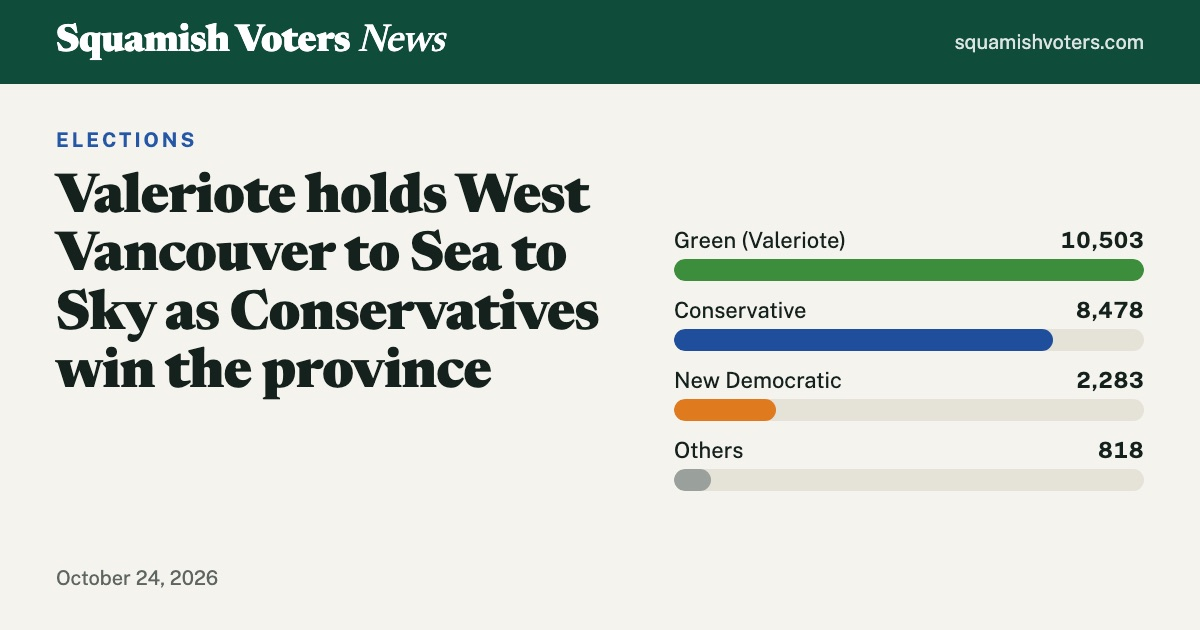
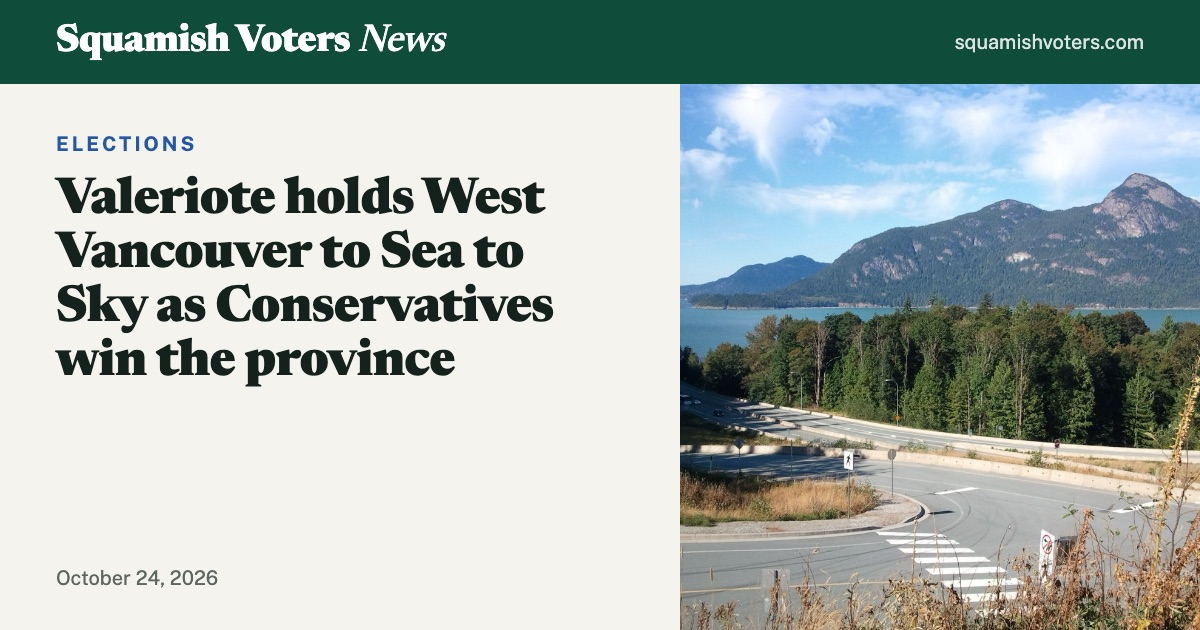
News photos: openly licensed photo on each story with credit, picked automatically for new drafts; News pill in the desktop top bar
Existing stories get Wikimedia Commons photos (photographer and licence shown). New drafts: Claude suggests
searches, looks at Commons results and picks one or none; the approval email and page show it and it can be
left off. Share pictures include the photo.

diff --git a/src/site.css b/src/site.css
@@ -1175,3 +1175,33 @@ dialog.sides .small { margin: 0; font-weight: 700; }
 .nw [data-s="safety"], [data-s="safety"].nw-hk, .nw-chip[data-s="safety"] { --c: var(--nw-safety); }
 .nw [data-s="weather"], [data-s="weather"].nw-hk, .nw-chip[data-s="weather"] { --c: var(--nw-weather); }
 @media (min-width: 1000px) { .nw-lead.solo { grid-template-columns: minmax(0, 1fr); } .nw-lead.solo .nw-h { font-size: 2.4rem; } }
+
+/* news photos */
+.nw-photo { margin: 0; display: grid; gap: .3rem; }
+.nw-photo img { width: 100%; height: auto; aspect-ratio: 3 / 2; object-fit: cover; display: block; border-radius: 10px; background: var(--nw-track); }
+.nw-photo figcaption { font-size: .72rem; color: var(--muted); line-height: 1.35; }
+.nw-photo figcaption span { white-space: normal; }
+.nw-photo figcaption a { color: var(--muted); }
+.nw-card > .nw-photo, .nw-feature > .nw-photo { margin: -1rem -1.05rem .1rem; }
+.nw-card > .nw-photo img, .nw-feature > .nw-photo img { border-radius: var(--radius) var(--radius) 0 0; aspect-ratio: 16 / 9; }
+.nw-card > .nw-photo figcaption, .nw-feature > .nw-photo figcaption { padding: 0 1.05rem; }
+.nw-feature > .nw-photo { margin: -1.1rem -1.1rem .1rem; }
+.nw-card > .nw-map:first-child { margin-top: -1rem; }
+.nw-card > .nw-map:first-child img { border-radius: var(--radius) var(--radius) 0 0; }
+.nw-lead > .nw-photo img { aspect-ratio: 16 / 9; }
+.nw-full .nw-photo img { aspect-ratio: 16 / 9; }
+.nw-homebox li { display: grid; grid-template-columns: auto 1fr; column-gap: .8rem; align-items: start; }
+.nw-homebox li > :not(.nw-thumb) { grid-column: 2; }
+.nw-homebox .nw-thumb { grid-row: 1 / span 2; width: 5.2rem; height: 3.5rem; object-fit: cover; border-radius: 8px; }
+.nw-homebox li:not(:has(.nw-thumb)) { grid-template-columns: 1fr; }
+.nw-homebox li:not(:has(.nw-thumb)) > * { grid-column: 1; }
+@media (min-width: 1000px) {
+  .nw-lead > .nw-photo { grid-column: 1 / -1; }
+  .nw-lead:not(.solo) > .nw-panel { grid-row: 2 / span 5; }
+}
+@media (min-width: 700px) { .nw-feature > .nw-photo { margin: -1.4rem -1.4rem .1rem; } }
+/* desktop top bar: News as a highlighted button, like the raised one on phones */
+.top-nav a.nav-news { background: var(--focus); color: #14211c; display: inline-flex; align-items: center; gap: .35rem; margin-left: .35rem; padding: .5rem .85rem; border-radius: 999px; font-weight: 800; }
+.top-nav a.nav-news svg { width: 18px; height: 18px; }
+.top-nav a.nav-news:hover { background: #ffc933; }
+.top-nav a.nav-news[aria-current="page"] { background: #fff; color: var(--brand); }

diff --git a/api/news-review.js b/api/news-review.js
@@ -40,7 +40,7 @@ export default async function handler(req, res) {
       await sql`UPDATE sv_news SET status = 'rejected', decided_at = now() WHERE id = ${id}`;
       return res.send(shell('Skipped', '<h1>Skipped</h1><p>This one won’t go on the site.</p>'));
     }
-    const d = { ...r.draft, head: one(b.head, 140) || r.draft.head, dek: one(b.dek, 1200) || r.draft.dek, take: one(b.take, 400), visual_big: one(b.visual_big, 24), visual_small: one(b.visual_small, 60) };
+    const d = { ...r.draft, head: one(b.head, 140) || r.draft.head, dek: one(b.dek, 1200) || r.draft.dek, take: one(b.take, 400), visual_big: one(b.visual_big, 24), visual_small: one(b.visual_small, 60), photo: b.no_photo ? null : r.draft.photo || null };
     await sql`UPDATE sv_news SET status = 'approved', decided_at = now(), draft = ${JSON.stringify(d)} WHERE id = ${id}`;
     return res.send(shell('Approved', `<h1>Approved</h1><p>“${esc(d.head)}” is on <a href="https://squamishvoters.com/news/">squamishvoters.com/news</a> now (it can take up to a minute to appear). Its share picture is added within about 20 minutes.</p>`));
   }
@@ -51,6 +51,8 @@ export default async function handler(req, res) {
 <p class="src">From <a href="${esc(it.url)}" target="_blank" rel="noopener">${esc(it.label)}: ${esc(it.title)}</a></p>
 <form method="post" action="/api/news-review/">
 <input type="hidden" name="id" value="${esc(id)}"><input type="hidden" name="t" value="${esc(t)}">
+${d.photo ? `<figure style="margin:1rem 0 0"><img src="${esc(d.photo.remote)}" alt="" style="width:100%;height:auto;border-radius:10px;display:block"><figcaption class="src">${esc(d.photo.caption)} Photo: <a href="${esc(d.photo.link)}" target="_blank" rel="noopener">${esc(d.photo.credit)}</a></figcaption></figure>
+<label style="font-weight:600"><input type="checkbox" name="no_photo" value="1" style="width:auto;margin-right:.4rem">Leave the photo off</label>` : ''}
 <label for="head">Headline</label><textarea id="head" name="head" maxlength="140" style="min-height:4.2rem;font-weight:700">${esc(d.head)}</textarea>
 <label for="dek">Story</label><textarea id="dek" name="dek" maxlength="1200">${esc(d.dek)}</textarea>
 <label for="take">What changes (one line, optional)</label><textarea id="take" name="take" maxlength="400" style="min-height:4rem">${esc(d.take)}</textarea>

diff --git a/scripts/pipeline/news-og.html b/scripts/pipeline/news-og.html
@@ -10,7 +10,7 @@ body{background:#f4f3ee;color:#14211c;font-family:"Public Sans",system-ui,sans-s
 .k{font-weight:700;font-size:20px;letter-spacing:3px;text-transform:uppercase}
 h1{font:800 58px/1.08 "Newsreader",Georgia,serif;margin:0;letter-spacing:-.5px;text-wrap:balance}
 .d{margin-top:auto;font-size:20px;color:#5d6661}
-.vis{align-self:center;max-width:420px}.big{font:800 112px/1 "Newsreader",Georgia,serif}.small{font-size:22px;font-weight:700;letter-spacing:2px;text-transform:uppercase;color:#5d6661;margin-top:10px}
+.vis{align-self:center;max-width:420px}.ph{margin:-48px -56px -40px 0;width:520px;height:calc(100% + 88px);background-size:cover;background-position:center}.main.wide{padding-right:56px}.big{font:800 112px/1 "Newsreader",Georgia,serif}.small{font-size:22px;font-weight:700;letter-spacing:2px;text-transform:uppercase;color:#5d6661;margin-top:10px}
 </style></head><body>
 <div class="top"><b>Squamish Voters <i>News</i></b><span>squamishvoters.com</span></div>
 <div class="main"><div class="txt"><div class="k" id="k"></div><h1 id="h"></h1><div class="d" id="d"></div></div><div class="vis" id="v"></div></div>
@@ -21,6 +21,7 @@ const c = COL[st.s] || '#0f4c3a';
 const k = document.getElementById('k'); k.textContent = st.sec; k.style.color = c;
 document.getElementById('h').textContent = st.head;
 document.getElementById('d').textContent = st.date;
-if (st.big) { const v = document.getElementById('v'); v.innerHTML = '<div class="big"></div><div class="small"></div>'; v.firstChild.textContent = st.big; v.firstChild.style.color = c; v.lastChild.textContent = st.small; }
+if (st.photo) { const v = document.getElementById('v'); v.className = 'ph'; v.style.backgroundImage = `url(${st.photo})`; }
+else if (st.big) { const v = document.getElementById('v'); v.innerHTML = '<div class="big"></div><div class="small"></div>'; v.firstChild.textContent = st.big; v.firstChild.style.color = c; v.lastChild.textContent = st.small; }
 if (st.head.length > 70) document.getElementById('h').style.fontSize = '50px';
 </script></body></html>

diff --git a/api/news-live.js b/api/news-live.js
@@ -13,7 +13,7 @@ const today = () => new Date().toLocaleDateString('en-CA', { timeZone: 'America/
 
 const toStory = (r) => {
   const d = r.draft || {}, it = r.item || {};
-  return { slug: d.slug, s: d.section, sec: SEC[d.section] || 'News', date: it.date && it.date <= today() ? it.date : today(), head: d.head, dek: d.dek, take: d.take || '', big: d.visual_big || '', small: d.visual_small || '', src: [it.label, it.url] };
+  return { slug: d.slug, s: d.section, sec: SEC[d.section] || 'News', date: it.date && it.date <= today() ? it.date : today(), head: d.head, dek: d.dek, take: d.take || '', big: d.visual_big || '', small: d.visual_small || '', photo: d.photo || null, src: [it.label, it.url] };
 };
 
 export default async function handler(req, res) {
@@ -36,7 +36,7 @@ export default async function handler(req, res) {
   }
   const url = `/news/${st.slug}/`;
   const body = `<div class="nw-kicker"><span>${esc(st.sec)}</span><time datetime="${st.date}" data-rel>${esc(new Date(st.date + 'T12:00:00').toLocaleDateString('en-CA', { month: 'long', day: 'numeric', year: 'numeric' }))}</time></div>
-<h1 class="nw-h">${esc(st.head)}</h1><p class="nw-dek">${esc(st.dek)}</p>
+<h1 class="nw-h">${esc(st.head)}</h1>${st.photo ? `<figure class="nw-photo"><img src="${esc(st.photo.remote)}" alt="${esc(st.photo.alt)}"><figcaption>${esc(st.photo.caption)} <span>Photo: <a href="${esc(st.photo.link)}" target="_blank" rel="noopener">${esc(st.photo.credit)}</a></span></figcaption></figure>` : ''}<p class="nw-dek">${esc(st.dek)}</p>
 ${st.big ? `<div class="nw-big">${esc(st.big)}<small>${esc(st.small)}</small></div>` : ''}
 ${st.take ? `<p class="nw-take"><b>What changes</b>${esc(st.take)}</p>` : ''}
 <div class="nw-foot"><p class="nw-src">Source: <a href="${esc(st.src[1])}" target="_blank" rel="noopener">${esc(st.src[0])}</a></p><button class="nw-share no-print" type="button" data-nw-share="${esc(ORIGIN + url)}" data-title="${esc(st.head)}">Share</button></div>`;

diff --git a/src/news.js b/src/news.js
@@ -57,7 +57,7 @@
         if (have[url]) return;
         var a = document.createElement('article');
         a.className = 'nw-card'; a.setAttribute('data-s', st.s);
-        a.innerHTML = '<div class="nw-kicker"><span>' + e(st.sec) + '</span><time>Just now</time></div><h3 class="nw-h"><a href="' + url + '">' + e(st.head) + '</a></h3>' +
+        a.innerHTML = (st.photo ? '<figure class="nw-photo"><img src="' + e(st.photo.remote) + '" alt="' + e(st.photo.alt) + '"><figcaption>' + e(st.photo.caption) + ' <span>Photo: ' + e(st.photo.credit) + '</span></figcaption></figure>' : '') + '<div class="nw-kicker"><span>' + e(st.sec) + '</span><time>Just now</time></div><h3 class="nw-h"><a href="' + url + '">' + e(st.head) + '</a></h3>' +
           (st.big ? '<div class="nw-big">' + e(st.big) + '<small>' + e(st.small) + '</small></div>' : '') + '<p class="nw-dek">' + e(st.dek) + '</p>' +
           (st.take ? '<p class="nw-take"><b>What changes</b>' + e(st.take) + '</p>' : '') +
           '<div class="nw-foot"><p class="nw-src">Source: <a href="' + e(st.src[1]) + '" target="_blank" rel="noopener">' + e(st.src[0]) + '</a></p><button class="nw-share no-print" type="button" data-nw-share="https://squamishvoters.com' + url + '" data-title="' + e(st.head) + '">Share</button></div>';
